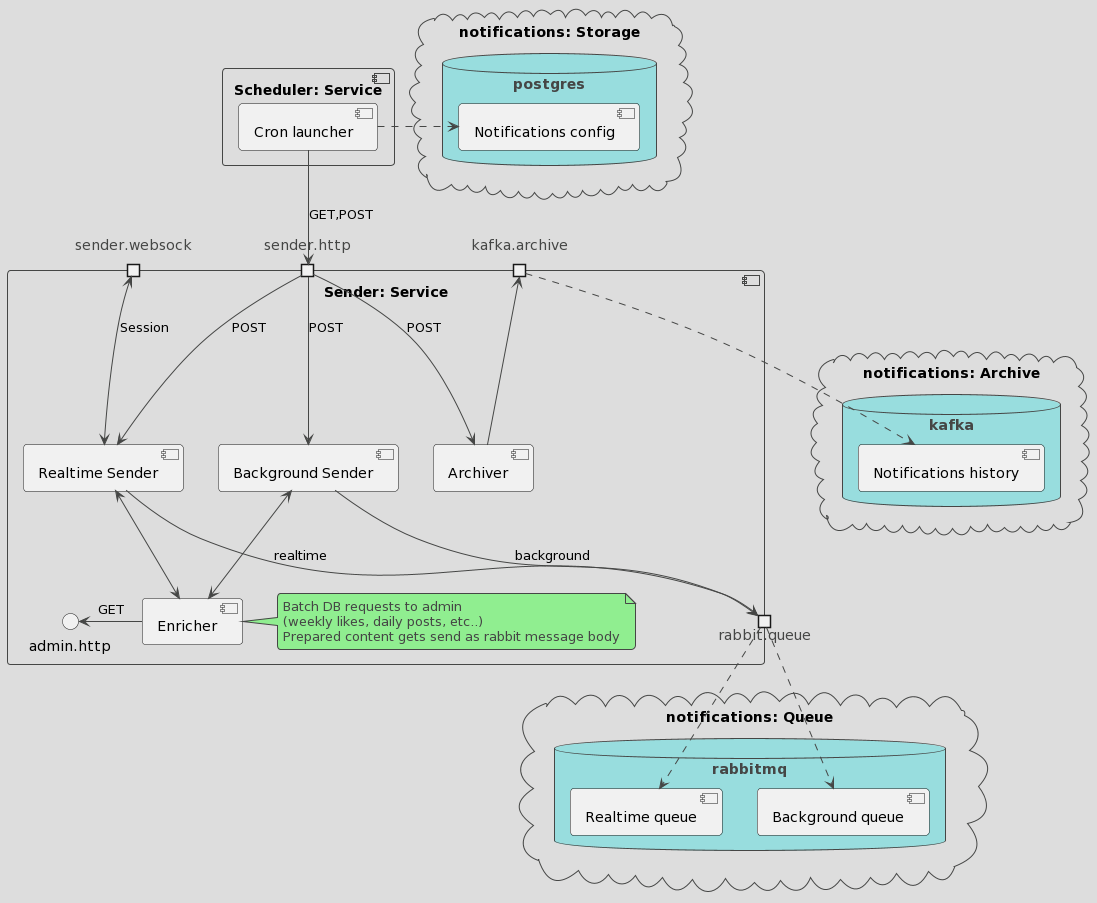
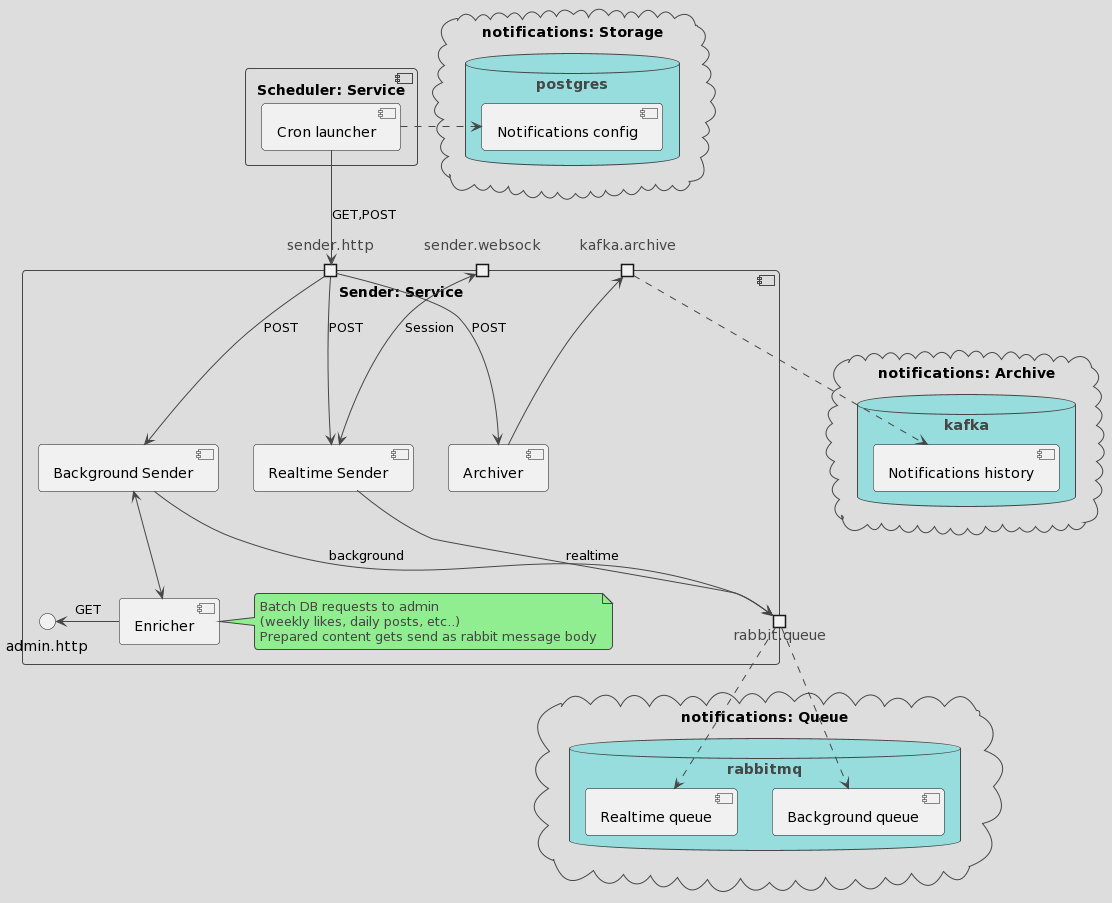
fixed relationships in generation, simpleified flows

diff --git a/src/worker/enrich.py b/src/worker/enrich.py
@@ -1,0 +1,2 @@
+# служба формирования запросов на выборку для подготовки рассылок и анализа данных
+# каждый воркер умеет запускать службу фоном для финалиной персонализации отправлений

diff --git a/src/worker/policy.py b/src/worker/policy.py
@@ -1,0 +1,2 @@
+# служба, подтверждающая отправку уже сформированного уведомления
+# проводит проверки актуальности и исполнения настроек

diff --git a/src/archiver/archiver.py b/src/archiver/archiver.py
@@ -1,0 +1,2 @@
+# архиватор отправляемвых сообщений
+# может подключаться к сендеру, воркерам, или отсутсвовать
